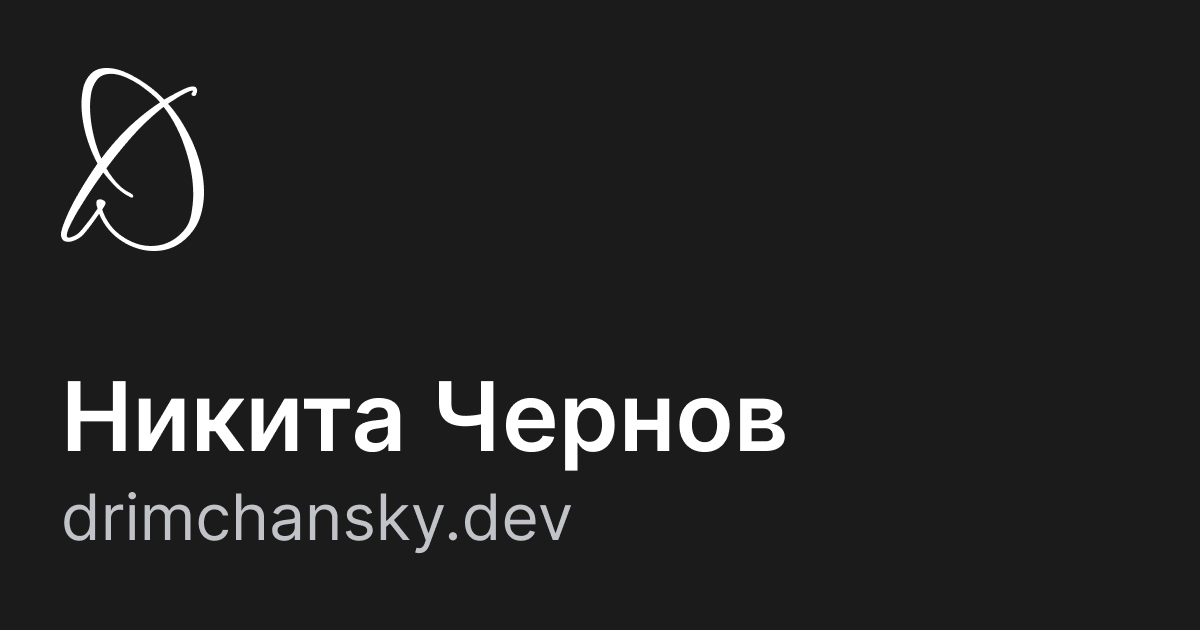
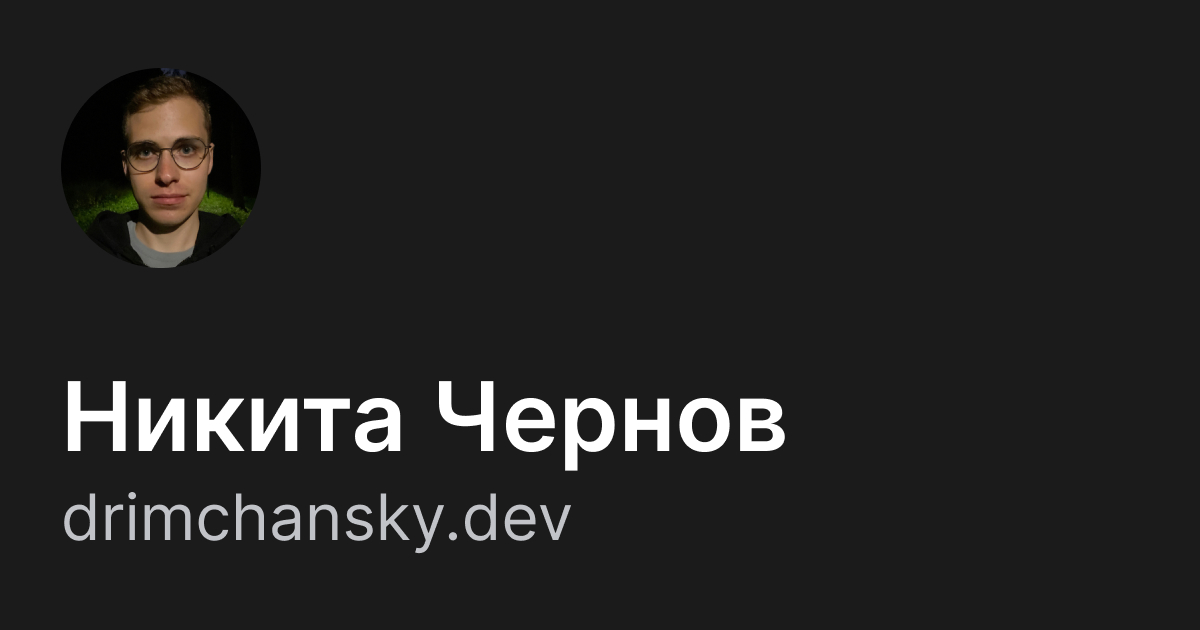
Update home page layout, header, texts, covers

Changed region(s): [[0.0308, 0.0905, 0.2158, 0.4222]]

diff --git a/src/i18n/locales/ru.ts b/src/i18n/locales/ru.ts
@@ -11,11 +11,11 @@ export const ru: LocaleCollection = {
   fullName: 'Никита Чернов',
   givenName: 'Никита',
   homePage: 'Главная',
-  intro: 'Фронтенд-инженер, ориентированный на пользовательский опыт и производительность веб-сайтов',
+  intro: 'Фронтенд-разработчик, ориентированный на пользовательский опыт и производительность веб-сайтов',
   light: 'Светлая',
   location: 'Тбилиси, Грузия',
   menu: 'Меню',
-  occupation: 'Фронтенд-инженер',
+  occupation: 'Фронтенд-разработчик',
   present: 'на данный момент',
   resume: 'Резюме',
   siteDescription: 'Личный сайт Никиты Чернова',

diff --git a/src/i18n/locales/en.ts b/src/i18n/locales/en.ts
@@ -12,11 +12,11 @@ export const en: LocaleCollection = {
   fullName: 'Nikita Chernov',
   givenName: 'Nikita',
   homePage: 'Home',
-  intro: 'Frontend Engineer focused on User Experience and Web Performance',
+  intro: 'Frontend Developer focused on User Experience and Web Performance',
   light: 'Light',
   location: 'Tbilisi, Georgia',
   menu: 'Menu',
-  occupation: 'Frontend engineer',
+  occupation: 'Frontend Developer',
   present: 'Present',
   resume: 'Resume',
   siteDescription: 'Personal website of Nikita Chernov',

diff --git a/src/content/general/ru/summary.md b/src/content/general/ru/summary.md
@@ -1,4 +1,4 @@
-Фронтенд-инженер с опытом разработки с использованием HTML, CSS, JavaScript, Web APIs, TypeScript, React, Vue, PIXI.js, Node.js, MongoDB и другими технологиями. Всегда стремлюсь к изучению чего-то нового: для себя ради интереса или для нового рабочего проекта.
+Фронтенд-разработчик с опытом использования HTML, CSS, JavaScript, Web APIs, TypeScript, React, Vue, PIXI.js, Node.js, MongoDB и других технологий. Всегда стремлюсь к изучению чего-то нового: для себя ради интереса или для нового рабочего проекта.
 
 Считаю, что продукт и фундаментальные знания являются первичными, а конкретные инструменты, такие как фреймворки, библиотеки и т. д., можно изучать и применять для решения стоящих перед тобой задач.
 

diff --git a/src/content/general/en/summary.md b/src/content/general/en/summary.md
@@ -1,4 +1,4 @@
-Frontend engineer with experience in HTML, CSS, JavaScript, Web APIs, TypeScript, React, Vue, PIXI.js, Node.js, MongoDB and other technologies. Always strive to learn new skills: for the sake of personal interest or for a new work project.
+Frontend developer with experience in HTML, CSS, JavaScript, Web APIs, TypeScript, React, Vue, PIXI.js, Node.js, MongoDB and other technologies. Always strive to learn new skills: for the sake of personal interest or for a new work project.
 
 I believe that the product and fundamental knowledge are primary, and specific tools like frameworks, libraries etc., can be studied and applied to appropriate tasks.
 
